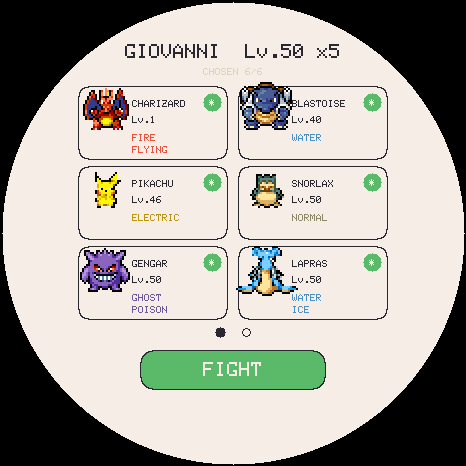
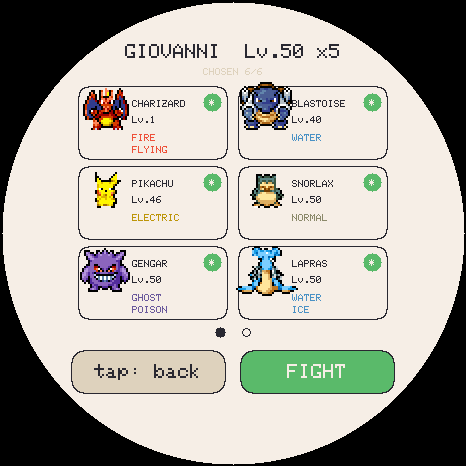
Battle menu gets RUN and a way back; enlarge the last small targets
Four reports from the board, all touch or navigation.

The battle root menu is now FIGHT across the top with POKEMON and RUN
side by side beneath it. Three full-width rows do not fit -- the panel is
round and the chord at that depth is only about 250 px -- and putting
the lower two in the move grid's cells means they inherit its padded hit
areas, which is what made POKEMON hard to press. RUN ends the fight, and
tells the peer first in a LAN battle so it is not left waiting for a
move that never comes.

The move and switch screens had no exit but choosing something. Both now
carry a BACK bar under the grid, which is why the whole panel moved up
12 px; the bottom row's downward padding shrank to 6 so it cannot reach
into BACK, the same overlap that BOX and CLOSE just had.

The gym list's EASY/HARD pill was 24 px tall -- half a fingertip -- and
team select had no way out but a swipe. Both now use UI_TAP_MIN, and
team select has BACK beside FIGHT.

Four tests were holding coordinates that the layout moved out from
under, which is them working. One of those, touch_test's cap check, had
been tapping x=233 -- now the gap between BACK and FIGHT -- so it was
passing because it hit nothing at all.

28 suites pass.

Changed region(s): [[0.1502, 0.7511, 0.8712, 0.8712]]

diff --git a/i18n.cpp b/i18n.cpp
@@ -45,7 +45,7 @@ static const char *const STRINGS[LANG_COUNT][STR_COUNT] = {
     "%s: %s", "PARALISIS", "QUEMADURA", "VENENO", "DORMIDO", "CONGELADO", "CONFUSION",
     "Has ganado!", "Has perdido...",
     "%s saca a %s", "Adelante, %s!", "GIMNASIOS", "MEDALLAS %u/8", "ENTRENADOR", "VELOCIDAD +%u", "toca: cambiar avatar", "%u en total", "NORMAL", "DIFICIL",
- "ELEGIDOS %u/%u", "LUCHAR", "BLOQUEADO", "POKEMON", "%s derrotado!", "MEDALLA NUEVA!", "VOL %u", "CAJA %u/%u", "cambiar con %s: elige hueco", "CAJA", "TRAER", "solo con un huevo", "COMBATE LAN", "CREAR", "UNIRSE", "buscando...", "listo!", "version distinta", "crear o unirse", "rival: %u mons", "el rival se fue", "esperando al rival...", "OTRA VEZ", "de que region viene el huevo", "%s +%u", "ya no puede entrenar mas",  },
+ "ELEGIDOS %u/%u", "LUCHAR", "BLOQUEADO", "POKEMON", "%s derrotado!", "MEDALLA NUEVA!", "VOL %u", "CAJA %u/%u", "cambiar con %s: elige hueco", "CAJA", "TRAER", "solo con un huevo", "COMBATE LAN", "CREAR", "UNIRSE", "buscando...", "listo!", "version distinta", "crear o unirse", "rival: %u mons", "el rival se fue", "esperando al rival...", "OTRA VEZ", "HUIR", "de que region viene el huevo", "%s +%u", "ya no puede entrenar mas",  },
   // ---------------- EN ----------------
   {
     "Evolving!", "Yum yum!", "It likes it!", "It's hungry!", "Needs a bath!",
@@ -84,7 +84,7 @@ static const char *const STRINGS[LANG_COUNT][STR_COUNT] = {
     "%s: %s", "PARALYSED", "BURNED", "POISONED", "ASLEEP", "FROZEN", "CONFUSED",
     "You win!", "You lost...",
     "%s sends out %s", "Go, %s!", "GYMS", "BADGES %u/8", "TRAINER",
- "SPEED +%u", "tap: change avatar", "%u earned in all", "EASY", "HARD", "CHOSEN %u/%u", "FIGHT", "LOCKED", "POKEMON", "%s defeated!", "NEW BADGE!", "VOL %u", "BOX %u/%u", "swap with %s: pick a slot", "BOX", "BRING BACK", "only while an egg waits", "LAN BATTLE", "HOST", "JOIN", "searching...", "ready!", "different version", "host or join", "rival: %u mons", "the rival left", "waiting for the rival...", "AGAIN", "where this egg comes from", "%s +%u", "trained as far as it can go",
+ "SPEED +%u", "tap: change avatar", "%u earned in all", "EASY", "HARD", "CHOSEN %u/%u", "FIGHT", "LOCKED", "POKEMON", "%s defeated!", "NEW BADGE!", "VOL %u", "BOX %u/%u", "swap with %s: pick a slot", "BOX", "BRING BACK", "only while an egg waits", "LAN BATTLE", "HOST", "JOIN", "searching...", "ready!", "different version", "host or join", "rival: %u mons", "the rival left", "waiting for the rival...", "AGAIN", "RUN", "where this egg comes from", "%s +%u", "trained as far as it can go",
   },
   // ---------------- FR ----------------
   {
@@ -123,7 +123,7 @@ static const char *const STRINGS[LANG_COUNT][STR_COUNT] = {
     "%s a rate!", "Coup critique!", "%s est K.O.!", "Il se blesse!",
     "%s: %s", "PARALYSIE", "BRULURE", "POISON", "ENDORMI", "GELE", "CONFUSION",
     "Gagne!", "Perdu...",
-    "%s envoie %s", "Vas-y, %s!", "ARENES", "BADGES %u/8", "DRESSEUR", "VITESSE +%u", "touche: changer d'avatar", "%u au total", "NORMAL", "DIFFICILE", "CHOISIS %u/%u", "COMBATTRE", "VERROUILLE", "POKEMON", "%s vaincu!", "NOUVEAU BADGE!", "VOL %u", "BOITE %u/%u", "echanger avec %s: choisis", "BOITE", "RAMENER", "seulement avec un oeuf", "COMBAT LAN", "CREER", "REJOINDRE", "recherche...", "pret!", "version differente", "creer ou rejoindre", "rival: %u mons", "le rival est parti", "en attente du rival...", "ENCORE", "d ou vient cet oeuf", "%s +%u", "ne peut plus progresser",
+    "%s envoie %s", "Vas-y, %s!", "ARENES", "BADGES %u/8", "DRESSEUR", "VITESSE +%u", "touche: changer d'avatar", "%u au total", "NORMAL", "DIFFICILE", "CHOISIS %u/%u", "COMBATTRE", "VERROUILLE", "POKEMON", "%s vaincu!", "NOUVEAU BADGE!", "VOL %u", "BOITE %u/%u", "echanger avec %s: choisis", "BOITE", "RAMENER", "seulement avec un oeuf", "COMBAT LAN", "CREER", "REJOINDRE", "recherche...", "pret!", "version differente", "creer ou rejoindre", "rival: %u mons", "le rival est parti", "en attente du rival...", "ENCORE", "FUIR", "d ou vient cet oeuf", "%s +%u", "ne peut plus progresser",
   },
   // ---------------- DE ----------------
   {
@@ -162,7 +162,7 @@ static const char *const STRINGS[LANG_COUNT][STR_COUNT] = {
     "%s hat verfehlt!", "Volltreffer!", "%s wurde besiegt!", "Es verletzt sich!",
     "%s: %s", "PARALYSE", "VERBRANNT", "VERGIFTET", "SCHLAEFT", "GEFROREN", "VERWIRRT",
     "Gewonnen!", "Verloren...",
-    "%s schickt %s", "Los, %s!", "ARENEN", "ORDEN %u/8", "TRAINER", "TEMPO +%u", "tippen: Avatar wechseln", "%u insgesamt", "NORMAL", "SCHWER", "GEWAEHLT %u/%u", "KAEMPFEN", "GESPERRT", "POKEMON", "%s besiegt!", "NEUER ORDEN!", "LAUT %u", "BOX %u/%u", "mit %s tauschen: waehle", "BOX", "ZURUECK", "nur mit einem Ei", "LAN KAMPF", "HOSTEN", "BEITRETEN", "suche...", "bereit!", "andere Version", "hosten oder beitreten", "Gegner: %u", "der Gegner ist weg", "warte auf den Gegner...", "NOCHMAL", "woher dieses Ei kommt", "%s +%u", "kann nicht weiter trainieren",
+    "%s schickt %s", "Los, %s!", "ARENEN", "ORDEN %u/8", "TRAINER", "TEMPO +%u", "tippen: Avatar wechseln", "%u insgesamt", "NORMAL", "SCHWER", "GEWAEHLT %u/%u", "KAEMPFEN", "GESPERRT", "POKEMON", "%s besiegt!", "NEUER ORDEN!", "LAUT %u", "BOX %u/%u", "mit %s tauschen: waehle", "BOX", "ZURUECK", "nur mit einem Ei", "LAN KAMPF", "HOSTEN", "BEITRETEN", "suche...", "bereit!", "andere Version", "hosten oder beitreten", "Gegner: %u", "der Gegner ist weg", "warte auf den Gegner...", "NOCHMAL", "FLUCHT", "woher dieses Ei kommt", "%s +%u", "kann nicht weiter trainieren",
   },
   // ---------------- IT ----------------
   {
@@ -201,7 +201,7 @@ static const char *const STRINGS[LANG_COUNT][STR_COUNT] = {
     "%s ha mancato!", "Brutto colpo!", "%s e\' esausto!", "Si e ferito!",
     "%s: %s", "PARALISI", "SCOTTATURA", "VELENO", "ADDORMENTATO", "CONGELATO", "CONFUSIONE",
     "Hai vinto!", "Hai perso...",
-    "%s manda %s", "Vai, %s!", "PALESTRE", "MEDAGLIE %u/8", "ALLENATORE", "VELOCITA +%u", "tocca: cambia avatar", "%u in totale", "NORMALE", "DIFFICILE", "SCELTI %u/%u", "LOTTA", "BLOCCATO", "POKEMON", "%s sconfitto!", "NUOVA MEDAGLIA!", "VOL %u", "BOX %u/%u", "scambia con %s: scegli", "BOX", "RIPORTA", "solo con un uovo", "LOTTA LAN", "CREA", "ENTRA", "ricerca...", "pronto!", "versione diversa", "crea o entra", "rivale: %u mons", "il rivale se n' e andato", "in attesa del rivale...", "ANCORA", "da quale regione viene l uovo", "%s +%u", "non puo allenarsi oltre",
+    "%s manda %s", "Vai, %s!", "PALESTRE", "MEDAGLIE %u/8", "ALLENATORE", "VELOCITA +%u", "tocca: cambia avatar", "%u in totale", "NORMALE", "DIFFICILE", "SCELTI %u/%u", "LOTTA", "BLOCCATO", "POKEMON", "%s sconfitto!", "NUOVA MEDAGLIA!", "VOL %u", "BOX %u/%u", "scambia con %s: scegli", "BOX", "RIPORTA", "solo con un uovo", "LOTTA LAN", "CREA", "ENTRA", "ricerca...", "pronto!", "versione diversa", "crea o entra", "rivale: %u mons", "il rivale se n' e andato", "in attesa del rivale...", "ANCORA", "FUGGI", "da quale regione viene l uovo", "%s +%u", "non puo allenarsi oltre",
   },
   // ---------------- PT ----------------
   {
@@ -240,7 +240,7 @@ static const char *const STRINGS[LANG_COUNT][STR_COUNT] = {
     "%s falhou!", "Acerto critico!", "%s desmaiou!", "Feriu-se!",
     "%s: %s", "PARALISIA", "QUEIMADURA", "VENENO", "A DORMIR", "CONGELADO", "CONFUSAO",
     "Ganhaste!", "Perdeste...",
-    "%s envia %s", "Vai, %s!", "GINASIOS", "MEDALHAS %u/8", "TREINADOR", "VELOCIDADE +%u", "toca: mudar avatar", "%u no total", "NORMAL", "DIFICIL", "ESCOLHIDOS %u/%u", "LUTAR", "BLOQUEADO", "POKEMON", "%s derrotado!", "NOVA MEDALHA!", "VOL %u", "CAIXA %u/%u", "trocar com %s: escolhe", "CAIXA", "TRAZER", "so com um ovo", "COMBATE LAN", "CRIAR", "ENTRAR", "a procurar...", "pronto!", "versao diferente", "criar ou entrar", "rival: %u mons", "o rival saiu", "a esperar pelo rival...", "OUTRA VEZ", "de que regiao vem o ovo", "%s +%u", "ja nao pode treinar mais",
+    "%s envia %s", "Vai, %s!", "GINASIOS", "MEDALHAS %u/8", "TREINADOR", "VELOCIDADE +%u", "toca: mudar avatar", "%u no total", "NORMAL", "DIFICIL", "ESCOLHIDOS %u/%u", "LUTAR", "BLOQUEADO", "POKEMON", "%s derrotado!", "NOVA MEDALHA!", "VOL %u", "CAIXA %u/%u", "trocar com %s: escolhe", "CAIXA", "TRAZER", "so com um ovo", "COMBATE LAN", "CRIAR", "ENTRAR", "a procurar...", "pronto!", "versao diferente", "criar ou entrar", "rival: %u mons", "o rival saiu", "a esperar pelo rival...", "OUTRA VEZ", "FUGIR", "de que regiao vem o ovo", "%s +%u", "ja nao pode treinar mais",
   },
 };
 

diff --git a/tools/emu/tests/touch_test.cpp b/tools/emu/tests/touch_test.cpp
@@ -322,7 +322,7 @@ int main(int argc, char **argv) {
   printf("PASS: battle starts with a squad of %u\n", btlSquadN);
 
   btlMenu = 0;
-  click(233, 286 + 52 + 22);            // POKEMON is the SECOND root row
+  click(150, 274 + 52 + 22);            // POKEMON: lower-LEFT cell now (RUN is right)
   if (btlMenu != 2) { printf("FAIL: POKEMON did not open the switch list\n"); return 1; }
   printf("PASS: POKEMON opens the switch list\n");
 
@@ -395,14 +395,17 @@ int main(int argc, char **argv) {
   squadMask = 0xFFFF;
   pickTrainer = 0; pickHard = true; pickOpen = true;   // BROCK: cap of 2
   uint8_t cap = squadCap(0, true);
-  click(233, 370);                                     // FIGHT with 6 chosen
+  // x=300: FIGHT sits right of centre now, with BACK to its left. Tapping 233
+  // lands in the gap between them and hits nothing, which made the next check
+  // pass for the wrong reason.
+  click(300, 366);                                     // FIGHT with 6 chosen
   if (battleOpen || !pickOpen) { printf("FAIL: FIGHT fired while over the cap\n"); return 1; }
   printf("PASS: FIGHT is inert while over the cap (%u chosen, cap %u)\n", 6, cap);
 
   // deselect down to the cap, then it should start
   for (int slot = 5; slot >= (int)cap; slot--)
     click(PICK_X(slot) + 40, PICK_Y(slot) + 30);
-  click(233, 370);
+  click(300, 366);
   if (!battleOpen) { printf("FAIL: FIGHT did not start at the cap\n"); return 1; }
   printf("PASS: trimming to the cap lets the fight start (squad %u)\n", btlSquadN);
   if (btlSquadN > cap) { printf("FAIL: squad exceeded the cap\n"); return 1; }

diff --git a/tools/emu/tests/hit_test.cpp b/tools/emu/tests/hit_test.cpp
@@ -45,7 +45,7 @@ int main(){
   while (pet.hasLearnOffer()) pet.declineLearn();
 
   // Sweep the whole grid area and record which cell each pixel belongs to.
-  const int X0 = 40, X1 = 430, Y0 = 270, Y1 = 420;
+  const int X0 = 40, X1 = 430, Y0 = 258, Y1 = 410;
   int area[4] = {0,0,0,0};
   int overlap = 0;
   int gapRow = 0, gapCol = 0;
@@ -69,7 +69,7 @@ int main(){
 
   // no dead horizontal seam between the rows
   int seam = 0;
-  for (int y = 328; y <= 340; y++)
+  for (int y = 316; y <= 328; y++)
     if (btlCellIndexAt(200, y) < 0) seam++;
   ck(seam == 0, "no dead gap between the two rows");
   (void)gapRow; (void)gapCol; (void)overlap;
@@ -82,7 +82,7 @@ int main(){
 
   // a tap just below the bottom row still counts -- that is where a finger
   // reaching for the lowest button actually lands
-  ck(btlCellIndexAt(150, 392) == 2 && btlCellIndexAt(320, 392) == 3,
+  ck(btlCellIndexAt(150, 372) == 2 && btlCellIndexAt(320, 372) == 3,
      "a low tap still reaches the bottom row");
 
   // The four boxes must TILE: the seam between them is one pixel wide, owned by
@@ -90,7 +90,7 @@ int main(){
   // rectangles here -- a test that copies the geometry drifts from it.
   ck(btlCellIndexAt(232, 300) == 0 && btlCellIndexAt(233, 300) == 1,
      "the column seam belongs to exactly one side");
-  ck(btlCellIndexAt(200, 333) == 0 && btlCellIndexAt(200, 334) == 2,
+  ck(btlCellIndexAt(200, 321) == 0 && btlCellIndexAt(200, 322) == 2,
      "and so does the row seam");
 
   // finally, drive a real tap low in the bottom-left cell through battleTap

diff --git a/tools/emu/tests/lan_test.cpp b/tools/emu/tests/lan_test.cpp
@@ -183,7 +183,7 @@ int main(){
     squadMask = (1 << 0) | (1 << 2);
     ck(pickChosen()==2, "two chosen");
     lan.begin(true,"T");
-    pickTap(200, 355);                    // FIGHT
+    pickTap(300, 366);                    // FIGHT (right of BACK now)
     ck(!pickOpen && lanOpen, "confirming the team opens the LAN screen");
     ck(lan.mineN==2, "and offers exactly what was chosen, not the whole party");
     ck(lan.mine[1].dex==35, "including the right party member");

diff --git a/i18n.h b/i18n.h
@@ -113,6 +113,7 @@ enum StrId : uint8_t {
   S_LAN, S_LAN_HOST, S_LAN_JOIN, S_LAN_WAIT, S_LAN_READY, S_LAN_REFUSED,
   S_LAN_PICK, S_LAN_VS,
   S_LAN_GONE, S_LAN_WAITFOE, S_LAN_REMATCH,
+  S_BTL_RUN,        // the third option in a fight: leave it
   S_EGG_REGION,     // hint under the egg's region pill
   S_WIN_TRAIN_FMT,  // "%s +%u" -- the training a gym win is worth
   S_WIN_MAXED,      // ... or that there is nowhere left to train
